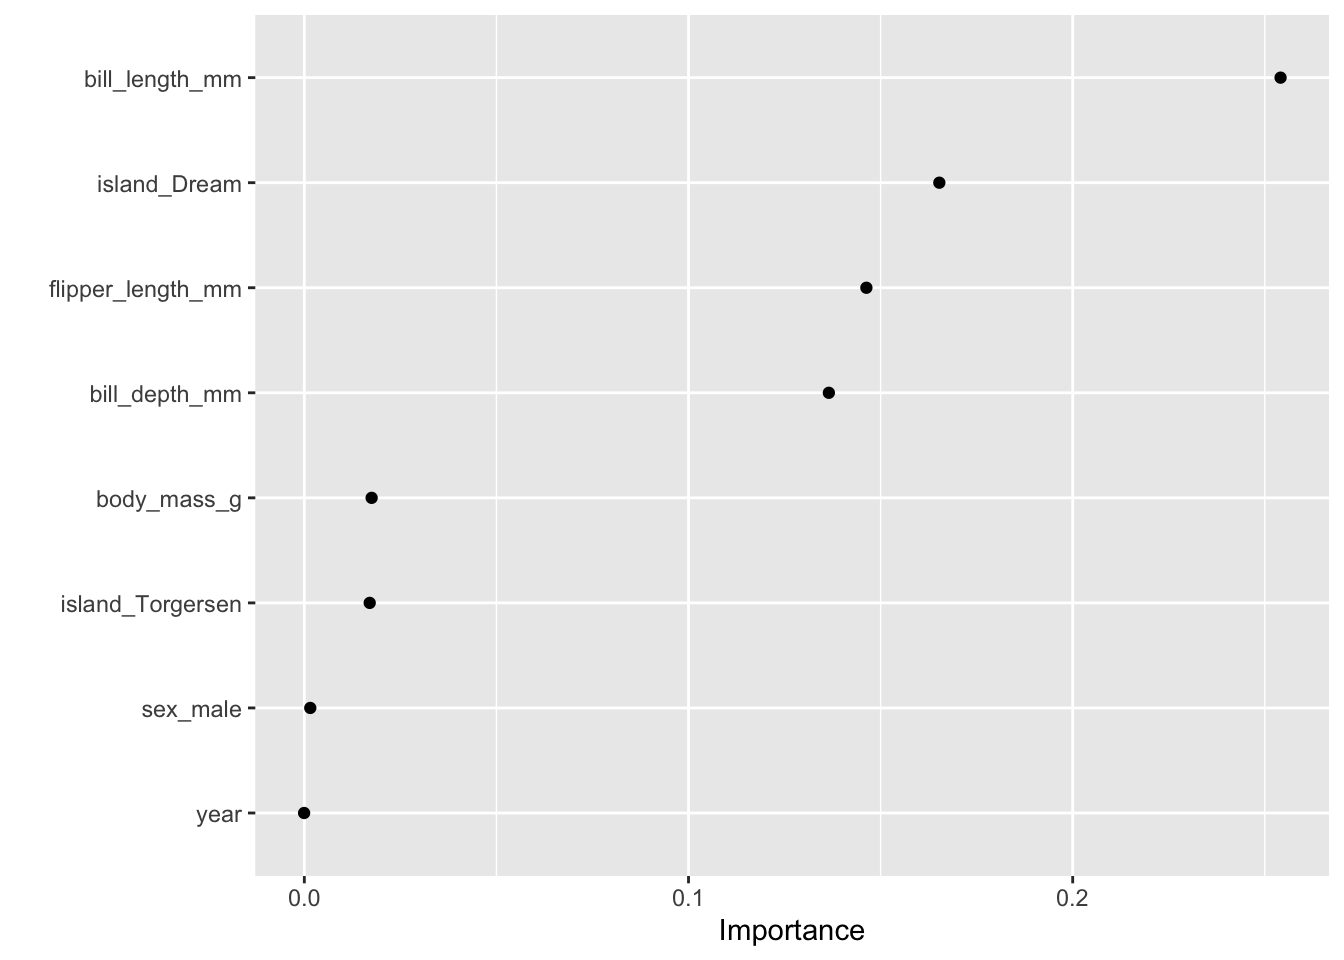
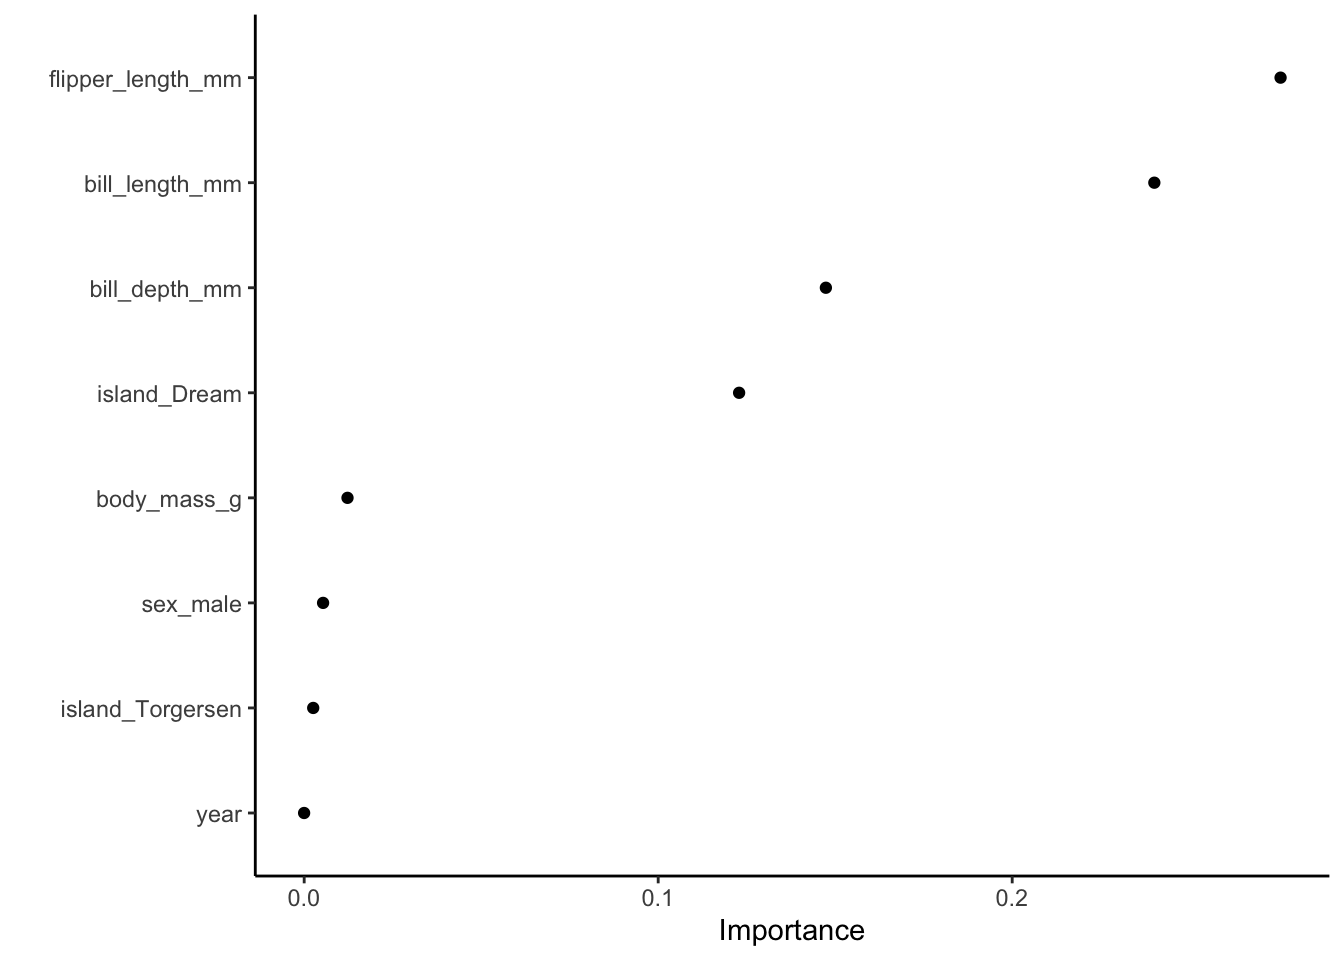
machine learning intro done

diff --git a/15_MachineLearningIntro.html b/15_MachineLearningIntro.html
@@ -186,7 +186,7 @@ pre > code.sourceCode > span > a:first-child::before { text-decoration: underlin
 ✖ dplyr::filter()  masks stats::filter()
 ✖ dplyr::lag()     masks stats::lag()
 ✖ recipes::step()  masks stats::step()
-• Learn how to get started at https://www.tidymodels.org/start/</code></pre>
+• Search for functions across packages at https://www.tidymodels.org/find/</code></pre>
 </div>
 <div class="sourceCode cell-code" id="cb5"><pre class="sourceCode r code-with-copy"><code class="sourceCode r"><span id="cb5-1"><a href="#cb5-1" aria-hidden="true" tabindex="-1"></a><span class="fu">library</span>(palmerpenguins)</span></code><button title="Copy to Clipboard" class="code-copy-button"><i class="bi"></i></button></pre></div>
 <div class="cell-output cell-output-stderr">
@@ -204,7 +204,8 @@ Attaching package: 'palmerpenguins'</code></pre>
 <div class="cell">
 <div class="sourceCode cell-code" id="cb8"><pre class="sourceCode r code-with-copy"><code class="sourceCode r"><span id="cb8-1"><a href="#cb8-1" aria-hidden="true" tabindex="-1"></a>penguins <span class="sc">%&gt;%</span> </span>
 <span id="cb8-2"><a href="#cb8-2" aria-hidden="true" tabindex="-1"></a>  <span class="fu">ggplot</span>(<span class="fu">aes</span>(<span class="at">x=</span>flipper_length_mm,<span class="at">y=</span>bill_length_mm,<span class="at">colour=</span>species))<span class="sc">+</span></span>
-<span id="cb8-3"><a href="#cb8-3" aria-hidden="true" tabindex="-1"></a>  <span class="fu">geom_point</span>()</span></code><button title="Copy to Clipboard" class="code-copy-button"><i class="bi"></i></button></pre></div>
+<span id="cb8-3"><a href="#cb8-3" aria-hidden="true" tabindex="-1"></a>  <span class="fu">geom_point</span>()<span class="sc">+</span></span>
+<span id="cb8-4"><a href="#cb8-4" aria-hidden="true" tabindex="-1"></a>  <span class="fu">theme_classic</span>()</span></code><button title="Copy to Clipboard" class="code-copy-button"><i class="bi"></i></button></pre></div>
 <div class="cell-output cell-output-stderr">
 <pre><code>Warning: Removed 2 rows containing missing values (`geom_point()`).</code></pre>
 </div>
@@ -218,7 +219,7 @@ Attaching package: 'palmerpenguins'</code></pre>
 </div>
 <section id="pre-processing" class="level2">
 <h2 class="anchored" data-anchor-id="pre-processing">Pre-Processing</h2>
-<p>The data are already tidy so lots split and then carry out any transformations we might want to do.</p>
+<p>The data are already tidy so lets split and then carry out any transformations we might want to do.</p>
 <div class="cell">
 <div class="sourceCode cell-code" id="cb10"><pre class="sourceCode r code-with-copy"><code class="sourceCode r"><span id="cb10-1"><a href="#cb10-1" aria-hidden="true" tabindex="-1"></a>penguins_noNA<span class="ot">&lt;-</span>penguins <span class="sc">%&gt;%</span> </span>
 <span id="cb10-2"><a href="#cb10-2" aria-hidden="true" tabindex="-1"></a>  <span class="fu">drop_na</span>()</span>
@@ -231,25 +232,27 @@ Attaching package: 'palmerpenguins'</code></pre>
 <span id="cb10-9"><a href="#cb10-9" aria-hidden="true" tabindex="-1"></a>df_test<span class="ot">&lt;-</span>splitdata <span class="sc">%&gt;%</span> </span>
 <span id="cb10-10"><a href="#cb10-10" aria-hidden="true" tabindex="-1"></a>  <span class="fu">testing</span>()</span></code><button title="Copy to Clipboard" class="code-copy-button"><i class="bi"></i></button></pre></div>
 </div>
-<p>We will be tuning hyper parameters later so we will also split the training data further into 5 cross validation folds. When we look at the fold object we can see that there are 10 sets of the same training data where the split is randomly different each time.</p>
+<p>We will be tuning hyper parameters later so we will also split the training data further into 5 cross validation folds. When we look at the fold object we can see that there are 10 sets of the same training data where the split is randomly different each time. As this element has randomisation involved we set a seed to make sure we get consistent results each time the code is run. We also want to make sure that the different levels of the response variable is present in both sides of each fold so we set strata to be species.</p>
 <div class="cell">
-<div class="sourceCode cell-code" id="cb11"><pre class="sourceCode r code-with-copy"><code class="sourceCode r"><span id="cb11-1"><a href="#cb11-1" aria-hidden="true" tabindex="-1"></a>df_train_folds<span class="ot">&lt;-</span><span class="fu">vfold_cv</span>(df_train)</span>
+<div class="sourceCode cell-code" id="cb11"><pre class="sourceCode r code-with-copy"><code class="sourceCode r"><span id="cb11-1"><a href="#cb11-1" aria-hidden="true" tabindex="-1"></a><span class="fu">set.seed</span>(<span class="dv">234</span>)</span>
 <span id="cb11-2"><a href="#cb11-2" aria-hidden="true" tabindex="-1"></a></span>
-<span id="cb11-3"><a href="#cb11-3" aria-hidden="true" tabindex="-1"></a>df_train_folds</span></code><button title="Copy to Clipboard" class="code-copy-button"><i class="bi"></i></button></pre></div>
+<span id="cb11-3"><a href="#cb11-3" aria-hidden="true" tabindex="-1"></a>df_train_folds<span class="ot">&lt;-</span><span class="fu">vfold_cv</span>(df_train,<span class="at">strata =</span> species)</span>
+<span id="cb11-4"><a href="#cb11-4" aria-hidden="true" tabindex="-1"></a></span>
+<span id="cb11-5"><a href="#cb11-5" aria-hidden="true" tabindex="-1"></a>df_train_folds</span></code><button title="Copy to Clipboard" class="code-copy-button"><i class="bi"></i></button></pre></div>
 <div class="cell-output cell-output-stdout">
-<pre><code>#  10-fold cross-validation 
+<pre><code>#  10-fold cross-validation using stratification 
 # A tibble: 10 × 2
    splits           id    
    &lt;list&gt;           &lt;chr&gt; 
- 1 &lt;split [224/25]&gt; Fold01
- 2 &lt;split [224/25]&gt; Fold02
+ 1 &lt;split [222/27]&gt; Fold01
+ 2 &lt;split [222/27]&gt; Fold02
  3 &lt;split [224/25]&gt; Fold03
  4 &lt;split [224/25]&gt; Fold04
  5 &lt;split [224/25]&gt; Fold05
- 6 &lt;split [224/25]&gt; Fold06
- 7 &lt;split [224/25]&gt; Fold07
- 8 &lt;split [224/25]&gt; Fold08
- 9 &lt;split [224/25]&gt; Fold09
+ 6 &lt;split [225/24]&gt; Fold06
+ 7 &lt;split [225/24]&gt; Fold07
+ 8 &lt;split [225/24]&gt; Fold08
+ 9 &lt;split [225/24]&gt; Fold09
 10 &lt;split [225/24]&gt; Fold10</code></pre>
 </div>
 </div>
@@ -282,30 +285,32 @@ Attaching package: 'palmerpenguins'</code></pre>
 <span id="cb15-2"><a href="#cb15-2" aria-hidden="true" tabindex="-1"></a>  <span class="fu">add_recipe</span>(penguin_recipe) <span class="sc">%&gt;%</span></span>
 <span id="cb15-3"><a href="#cb15-3" aria-hidden="true" tabindex="-1"></a>  <span class="fu">add_model</span>(tune_spec)</span>
 <span id="cb15-4"><a href="#cb15-4" aria-hidden="true" tabindex="-1"></a></span>
-<span id="cb15-5"><a href="#cb15-5" aria-hidden="true" tabindex="-1"></a>tune_res <span class="ot">&lt;-</span> <span class="fu">tune_grid</span>(</span>
-<span id="cb15-6"><a href="#cb15-6" aria-hidden="true" tabindex="-1"></a>  tune_wf,</span>
-<span id="cb15-7"><a href="#cb15-7" aria-hidden="true" tabindex="-1"></a>  <span class="at">resamples =</span> df_train_folds,</span>
-<span id="cb15-8"><a href="#cb15-8" aria-hidden="true" tabindex="-1"></a>  <span class="at">grid =</span> <span class="dv">10</span></span>
-<span id="cb15-9"><a href="#cb15-9" aria-hidden="true" tabindex="-1"></a>)</span></code><button title="Copy to Clipboard" class="code-copy-button"><i class="bi"></i></button></pre></div>
+<span id="cb15-5"><a href="#cb15-5" aria-hidden="true" tabindex="-1"></a><span class="fu">set.seed</span>(<span class="dv">234</span>)</span>
+<span id="cb15-6"><a href="#cb15-6" aria-hidden="true" tabindex="-1"></a></span>
+<span id="cb15-7"><a href="#cb15-7" aria-hidden="true" tabindex="-1"></a>tune_res <span class="ot">&lt;-</span> <span class="fu">tune_grid</span>(</span>
+<span id="cb15-8"><a href="#cb15-8" aria-hidden="true" tabindex="-1"></a>  tune_wf,</span>
+<span id="cb15-9"><a href="#cb15-9" aria-hidden="true" tabindex="-1"></a>  <span class="at">resamples =</span> df_train_folds,</span>
+<span id="cb15-10"><a href="#cb15-10" aria-hidden="true" tabindex="-1"></a>  <span class="at">grid =</span> <span class="dv">10</span></span>
+<span id="cb15-11"><a href="#cb15-11" aria-hidden="true" tabindex="-1"></a>)</span></code><button title="Copy to Clipboard" class="code-copy-button"><i class="bi"></i></button></pre></div>
 <div class="cell-output cell-output-stderr">
 <pre><code>i Creating pre-processing data to finalize unknown parameter: mtry</code></pre>
 </div>
 <div class="sourceCode cell-code" id="cb17"><pre class="sourceCode r code-with-copy"><code class="sourceCode r"><span id="cb17-1"><a href="#cb17-1" aria-hidden="true" tabindex="-1"></a>tune_res</span></code><button title="Copy to Clipboard" class="code-copy-button"><i class="bi"></i></button></pre></div>
 <div class="cell-output cell-output-stdout">
 <pre><code># Tuning results
-# 10-fold cross-validation 
+# 10-fold cross-validation using stratification 
 # A tibble: 10 × 4
    splits           id     .metrics          .notes          
    &lt;list&gt;           &lt;chr&gt;  &lt;list&gt;            &lt;list&gt;          
- 1 &lt;split [224/25]&gt; Fold01 &lt;tibble [20 × 6]&gt; &lt;tibble [0 × 3]&gt;
- 2 &lt;split [224/25]&gt; Fold02 &lt;tibble [20 × 6]&gt; &lt;tibble [0 × 3]&gt;
+ 1 &lt;split [222/27]&gt; Fold01 &lt;tibble [20 × 6]&gt; &lt;tibble [0 × 3]&gt;
+ 2 &lt;split [222/27]&gt; Fold02 &lt;tibble [20 × 6]&gt; &lt;tibble [0 × 3]&gt;
  3 &lt;split [224/25]&gt; Fold03 &lt;tibble [20 × 6]&gt; &lt;tibble [0 × 3]&gt;
  4 &lt;split [224/25]&gt; Fold04 &lt;tibble [20 × 6]&gt; &lt;tibble [0 × 3]&gt;
  5 &lt;split [224/25]&gt; Fold05 &lt;tibble [20 × 6]&gt; &lt;tibble [0 × 3]&gt;
- 6 &lt;split [224/25]&gt; Fold06 &lt;tibble [20 × 6]&gt; &lt;tibble [0 × 3]&gt;
- 7 &lt;split [224/25]&gt; Fold07 &lt;tibble [20 × 6]&gt; &lt;tibble [0 × 3]&gt;
- 8 &lt;split [224/25]&gt; Fold08 &lt;tibble [20 × 6]&gt; &lt;tibble [0 × 3]&gt;
- 9 &lt;split [224/25]&gt; Fold09 &lt;tibble [20 × 6]&gt; &lt;tibble [0 × 3]&gt;
+ 6 &lt;split [225/24]&gt; Fold06 &lt;tibble [20 × 6]&gt; &lt;tibble [0 × 3]&gt;
+ 7 &lt;split [225/24]&gt; Fold07 &lt;tibble [20 × 6]&gt; &lt;tibble [0 × 3]&gt;
+ 8 &lt;split [225/24]&gt; Fold08 &lt;tibble [20 × 6]&gt; &lt;tibble [0 × 3]&gt;
+ 9 &lt;split [225/24]&gt; Fold09 &lt;tibble [20 × 6]&gt; &lt;tibble [0 × 3]&gt;
 10 &lt;split [225/24]&gt; Fold10 &lt;tibble [20 × 6]&gt; &lt;tibble [0 × 3]&gt;</code></pre>
 </div>
 </div>
@@ -322,7 +327,8 @@ Attaching package: 'palmerpenguins'</code></pre>
 <span id="cb19-9"><a href="#cb19-9" aria-hidden="true" tabindex="-1"></a>  <span class="fu">ggplot</span>(<span class="fu">aes</span>(value, mean, <span class="at">color =</span> parameter)) <span class="sc">+</span></span>
 <span id="cb19-10"><a href="#cb19-10" aria-hidden="true" tabindex="-1"></a>  <span class="fu">geom_point</span>(<span class="at">show.legend =</span> <span class="cn">FALSE</span>) <span class="sc">+</span></span>
 <span id="cb19-11"><a href="#cb19-11" aria-hidden="true" tabindex="-1"></a>  <span class="fu">facet_wrap</span>(<span class="sc">~</span>parameter, <span class="at">scales =</span> <span class="st">"free_x"</span>) <span class="sc">+</span></span>
-<span id="cb19-12"><a href="#cb19-12" aria-hidden="true" tabindex="-1"></a>  <span class="fu">labs</span>(<span class="at">x =</span> <span class="cn">NULL</span>, <span class="at">y =</span> <span class="st">"AUC"</span>)</span></code><button title="Copy to Clipboard" class="code-copy-button"><i class="bi"></i></button></pre></div>
+<span id="cb19-12"><a href="#cb19-12" aria-hidden="true" tabindex="-1"></a>  <span class="fu">labs</span>(<span class="at">x =</span> <span class="cn">NULL</span>, <span class="at">y =</span> <span class="st">"AUC"</span>)<span class="sc">+</span></span>
+<span id="cb19-13"><a href="#cb19-13" aria-hidden="true" tabindex="-1"></a>  <span class="fu">theme_classic</span>()</span></code><button title="Copy to Clipboard" class="code-copy-button"><i class="bi"></i></button></pre></div>
 <div class="cell-output-display">
 <div>
 <figure class="figure">
@@ -345,9 +351,9 @@ Attaching package: 'palmerpenguins'</code></pre>
 <pre><code>Random Forest Model Specification (classification)
 
 Main Arguments:
-  mtry = 7
+  mtry = 8
   trees = 500
-  min_n = 2
+  min_n = 5
 
 Computational engine: ranger </code></pre>
 </div>
@@ -368,7 +374,8 @@ Attaching package: 'vip'</code></pre>
 <span id="cb25-2"><a href="#cb25-2" aria-hidden="true" tabindex="-1"></a>  <span class="fu">set_engine</span>(<span class="st">"ranger"</span>, <span class="at">importance =</span> <span class="st">"permutation"</span>) <span class="sc">%&gt;%</span></span>
 <span id="cb25-3"><a href="#cb25-3" aria-hidden="true" tabindex="-1"></a>  <span class="fu">fit</span>(species<span class="sc">~</span>.,<span class="at">data=</span>penguin_juiced</span>
 <span id="cb25-4"><a href="#cb25-4" aria-hidden="true" tabindex="-1"></a>  ) <span class="sc">%&gt;%</span></span>
-<span id="cb25-5"><a href="#cb25-5" aria-hidden="true" tabindex="-1"></a>  <span class="fu">vip</span>(<span class="at">geom =</span> <span class="st">"point"</span>)</span></code><button title="Copy to Clipboard" class="code-copy-button"><i class="bi"></i></button></pre></div>
+<span id="cb25-5"><a href="#cb25-5" aria-hidden="true" tabindex="-1"></a>  <span class="fu">vip</span>(<span class="at">geom =</span> <span class="st">"point"</span>)<span class="sc">+</span></span>
+<span id="cb25-6"><a href="#cb25-6" aria-hidden="true" tabindex="-1"></a>  <span class="fu">theme_classic</span>()</span></code><button title="Copy to Clipboard" class="code-copy-button"><i class="bi"></i></button></pre></div>
 <div class="cell-output-display">
 <div>
 <figure class="figure">
@@ -396,11 +403,25 @@ Attaching package: 'vip'</code></pre>
 <pre><code># A tibble: 2 × 4
   .metric  .estimator .estimate .config             
   &lt;chr&gt;    &lt;chr&gt;          &lt;dbl&gt; &lt;chr&gt;               
-1 accuracy multiclass         1 Preprocessor1_Model1
-2 roc_auc  hand_till          1 Preprocessor1_Model1</code></pre>
+1 accuracy multiclass     0.964 Preprocessor1_Model1
+2 roc_auc  hand_till      1.00  Preprocessor1_Model1</code></pre>
 </div>
 </div>
-<p>So in this very specific example we have got very good results in our model. This is not always the case.</p>
+<p>So in this very specific example we have got ridiculously good results in our model. This is not always the case.</p>
+<p>We can also create a confusion matrix to compare where inaccuracies lay (i.e.&nbsp;false positives, false negatives?).</p>
+<div class="cell">
+<div class="sourceCode cell-code" id="cb28"><pre class="sourceCode r code-with-copy"><code class="sourceCode r"><span id="cb28-1"><a href="#cb28-1" aria-hidden="true" tabindex="-1"></a>final_res  <span class="sc">%&gt;%</span> </span>
+<span id="cb28-2"><a href="#cb28-2" aria-hidden="true" tabindex="-1"></a>  <span class="fu">unnest</span>(<span class="at">cols=</span>.predictions) <span class="sc">%&gt;%</span> </span>
+<span id="cb28-3"><a href="#cb28-3" aria-hidden="true" tabindex="-1"></a>  <span class="fu">conf_mat</span>(.pred_class,species)</span></code><button title="Copy to Clipboard" class="code-copy-button"><i class="bi"></i></button></pre></div>
+<div class="cell-output cell-output-stdout">
+<pre><code>           Truth
+Prediction  Adelie Chinstrap Gentoo
+  Adelie        33         1      0
+  Chinstrap      0        16      0
+  Gentoo         2         0     32</code></pre>
+</div>
+</div>
+<p>So we can see from this that almost all the predictions are the truth. If you want to see how much the random number generation from before effects the results you can rerun this script with different set.seed() numbers.</p>
 </section>
 </section>
 
